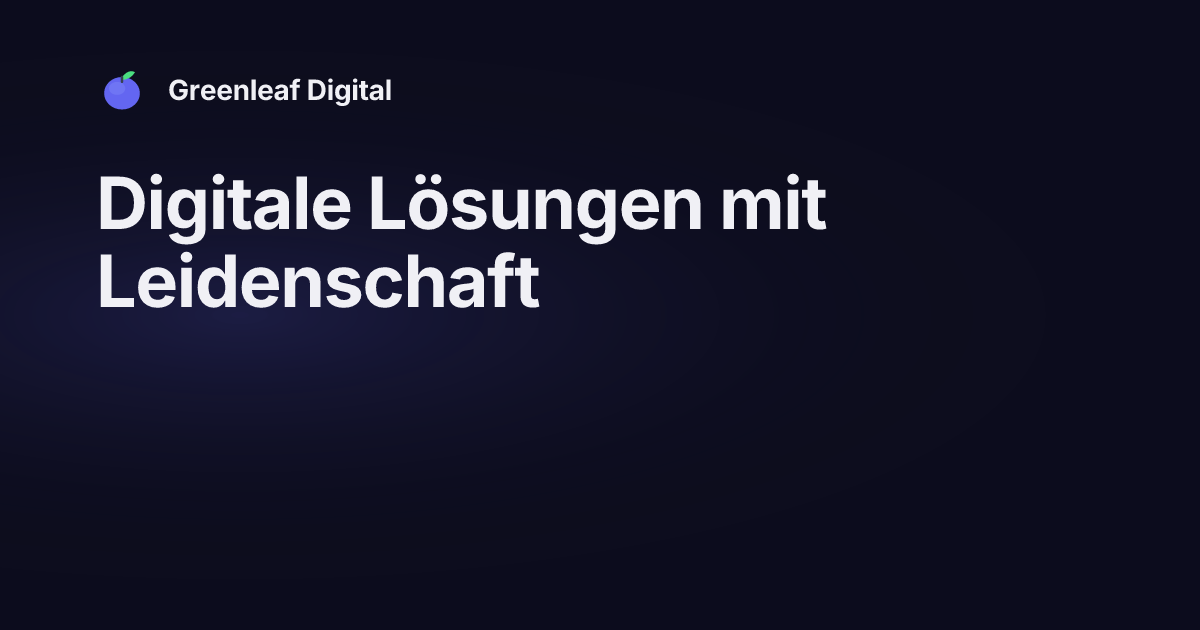
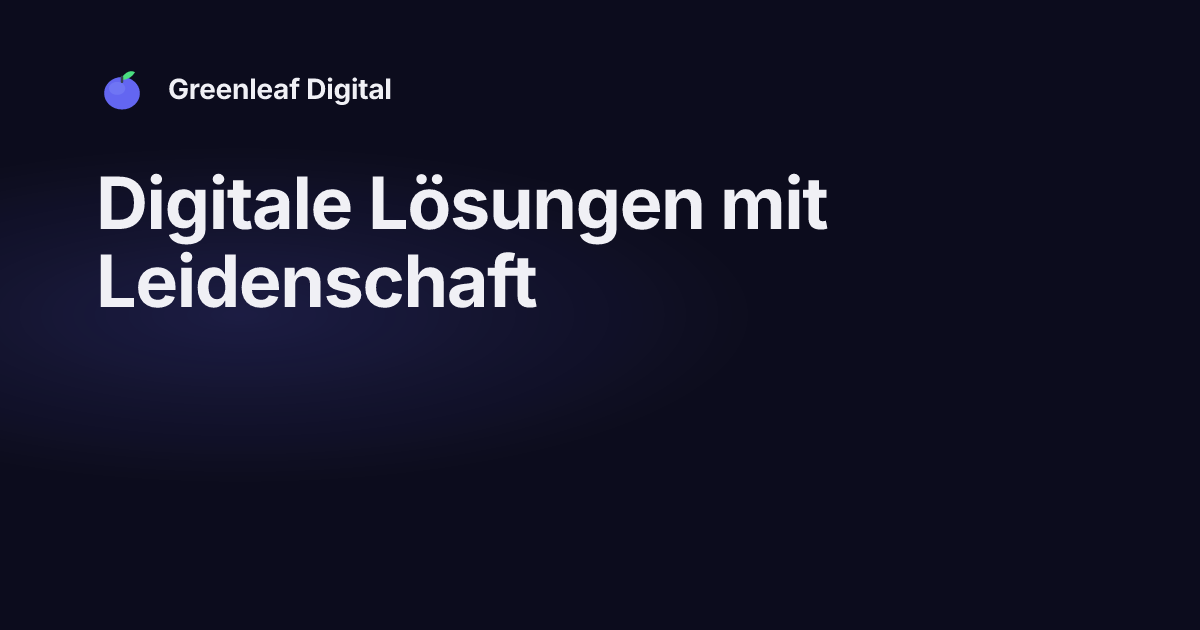
fix(og): keep OG image look under satori 0.63
Satori now follows CSS paint order, so the absolute glow painted over the
unpositioned text and tinted it. Position the content above it. Percent
maxWidth and radial gradient size also resolve differently now, so use an
explicit width and refit the glow stop against the previous render.

diff --git a/scripts/og-template.tsx b/scripts/og-template.tsx
@@ -9,6 +9,8 @@
  *   - Only <div> and <img> elements.
  *   - Every multi-child container sets `display: 'flex'`.
  *   - Absolute children sit inside a `position: 'relative'` parent.
+ *   - Content is `position: 'relative'` too: Satori follows CSS paint order,
+ *     so the absolute glow would otherwise tint it.
  *   - No className / Tailwind / CSS variables; inline style objects only.
  *   - SVG logos are inlined as data URIs (utf8-encoded) on <img src>.
  */
@@ -115,11 +117,12 @@ export function OgTemplate(props: OgTemplateProps): JSX.Element {
           left: 0,
           width: 1200,
           height: 630,
-          background: `radial-gradient(ellipse at 20% 50%, ${glowStop} 0%, transparent 60%)`,
+          background: `radial-gradient(ellipse at 20% 50%, ${glowStop} 0%, transparent 38%)`,
         }}
       />
       <div
         style={{
+          position: "relative",
           display: "flex",
           flexDirection: "row",
           alignItems: "center",
@@ -140,12 +143,13 @@ export function OgTemplate(props: OgTemplateProps): JSX.Element {
       </div>
       <div
         style={{
+          position: "relative",
           display: "flex",
           fontSize: 72,
           fontWeight: 700,
           lineHeight: 1.08,
           letterSpacing: "-0.02em",
-          maxWidth: "92%",
+          maxWidth: 928,
         }}
       >
         {tagline}
